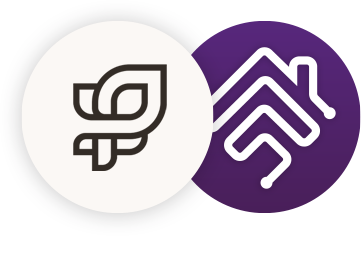
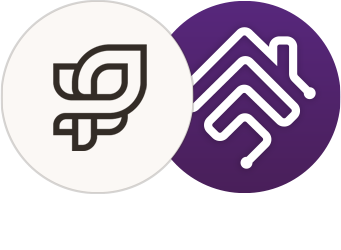
release: v1.5.3

diff --git a/homebridge-ui/public/index.html b/homebridge-ui/public/index.html
@@ -19,12 +19,19 @@
       opacity: 1 !important;
     }
 
-    .test-theme-lock.btn,
-    .test-theme-lock.btn:disabled {
+    .test-theme-lock.btn {
       background-color: transparent !important;
       color: var(--test-theme-color, var(--primary-color, var(--accent-color, var(--bs-primary, #0d6efd)))) !important;
       border-color: var(--test-theme-color, var(--primary-color, var(--accent-color, var(--bs-primary, #0d6efd)))) !important;
       opacity: 1 !important;
+    }
+
+    .test-theme-lock.btn:disabled {
+      background-color: transparent !important;
+      color: #8f98a3 !important;
+      border-color: #8f98a3 !important;
+      opacity: 1 !important;
+      cursor: not-allowed !important;
     }
 
     .test-theme-lock.btn,
@@ -155,12 +162,12 @@
           <img
             src="https://raw.githubusercontent.com/homebridge-plugins/homebridge-pura/latest/branding/banner.png"
             alt="Pura Smart Diffuser"
-            width="180"
+            width="170"
             style="height:auto;"
           />
         </div>
         <h5 class="card-title">Pura Sign In</h5>
-        <p class="card-text mb-4">Please enter your Pura login credentials.</p>
+        <p class="card-text mb-4">Please enter your Pura account credentials.</p>
 
         <div class="mb-3">
           <label class="form-label" for="name">Name</label>
@@ -247,11 +254,12 @@
       let testedCredentialKey = '';
 
       const getCredentialKey = () => `${els.username.value.trim()}\n${els.password.value}`;
+      const hasCredentialInputs = () => els.username.value.trim().length > 0 && els.password.value.length > 0;
 
       const setTestButtonDefault = () => {
         els.testBtn.className = 'btn test-theme-lock';
-        els.testBtn.innerHTML = '<i class="fa-regular fa-circle me-2"></i>' + TEST_BUTTON_TEXT;
-        els.testBtn.disabled = false;
+        els.testBtn.innerHTML = '<i class="fa-solid fa-circle-user me-2"></i>' + TEST_BUTTON_TEXT;
+        els.testBtn.disabled = !hasCredentialInputs();
         if (els.testHint) {
           els.testHint.classList.remove('test-hint-success', 'test-hint-error');
           els.testHint.textContent = TEST_HINT_DEFAULT;
@@ -409,6 +417,8 @@
           testedCredentialKey = '';
           setTestButtonDefault();
           setUiStatus('');
+        } else if (!credentialsVerified) {
+          setTestButtonDefault();
         }
         updateSaveState();
       };
@@ -422,8 +432,9 @@
 
         const current = await currentConfigBlock();
         els.name.value = current.name || DEFAULT_NAME;
-        els.username.value = current.username || '';
-        els.password.value = current.password || '';
+        // Always start with blank credential fields in the custom UI.
+        els.username.value = '';
+        els.password.value = '';
         els.forceNightlightOff.checked = !!current.forceNightlightOff;
 
         setUiStatus('');
